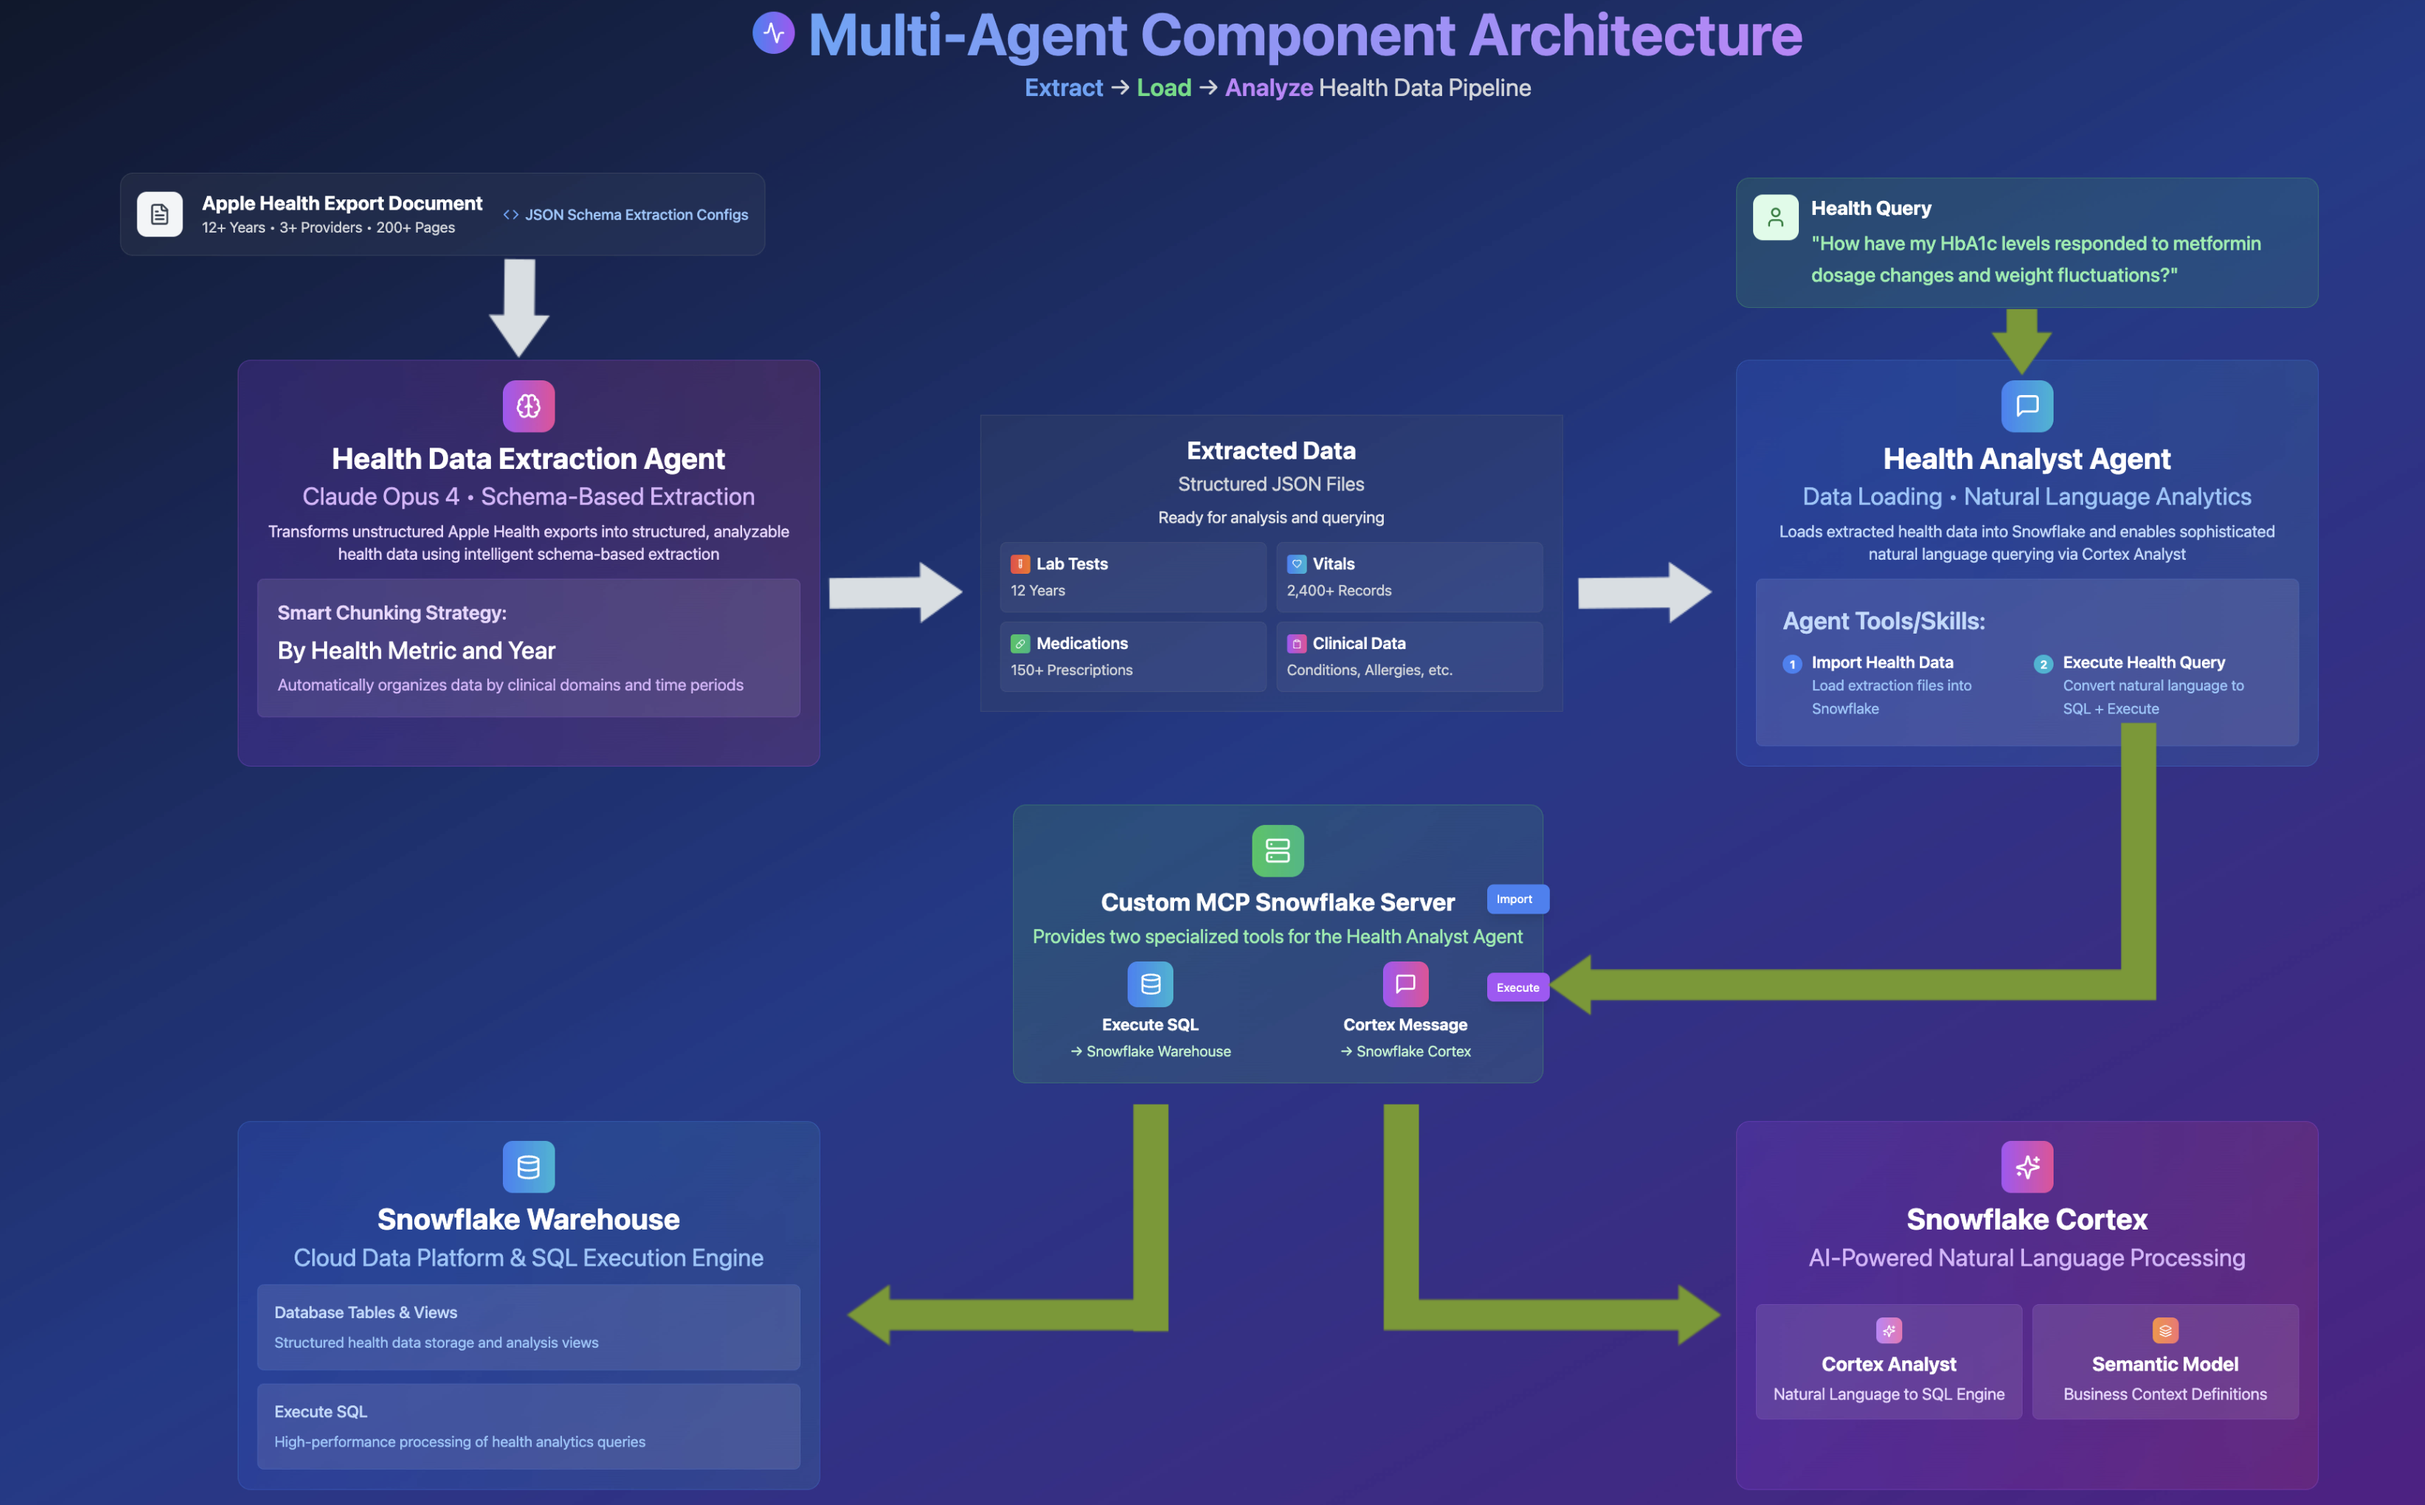
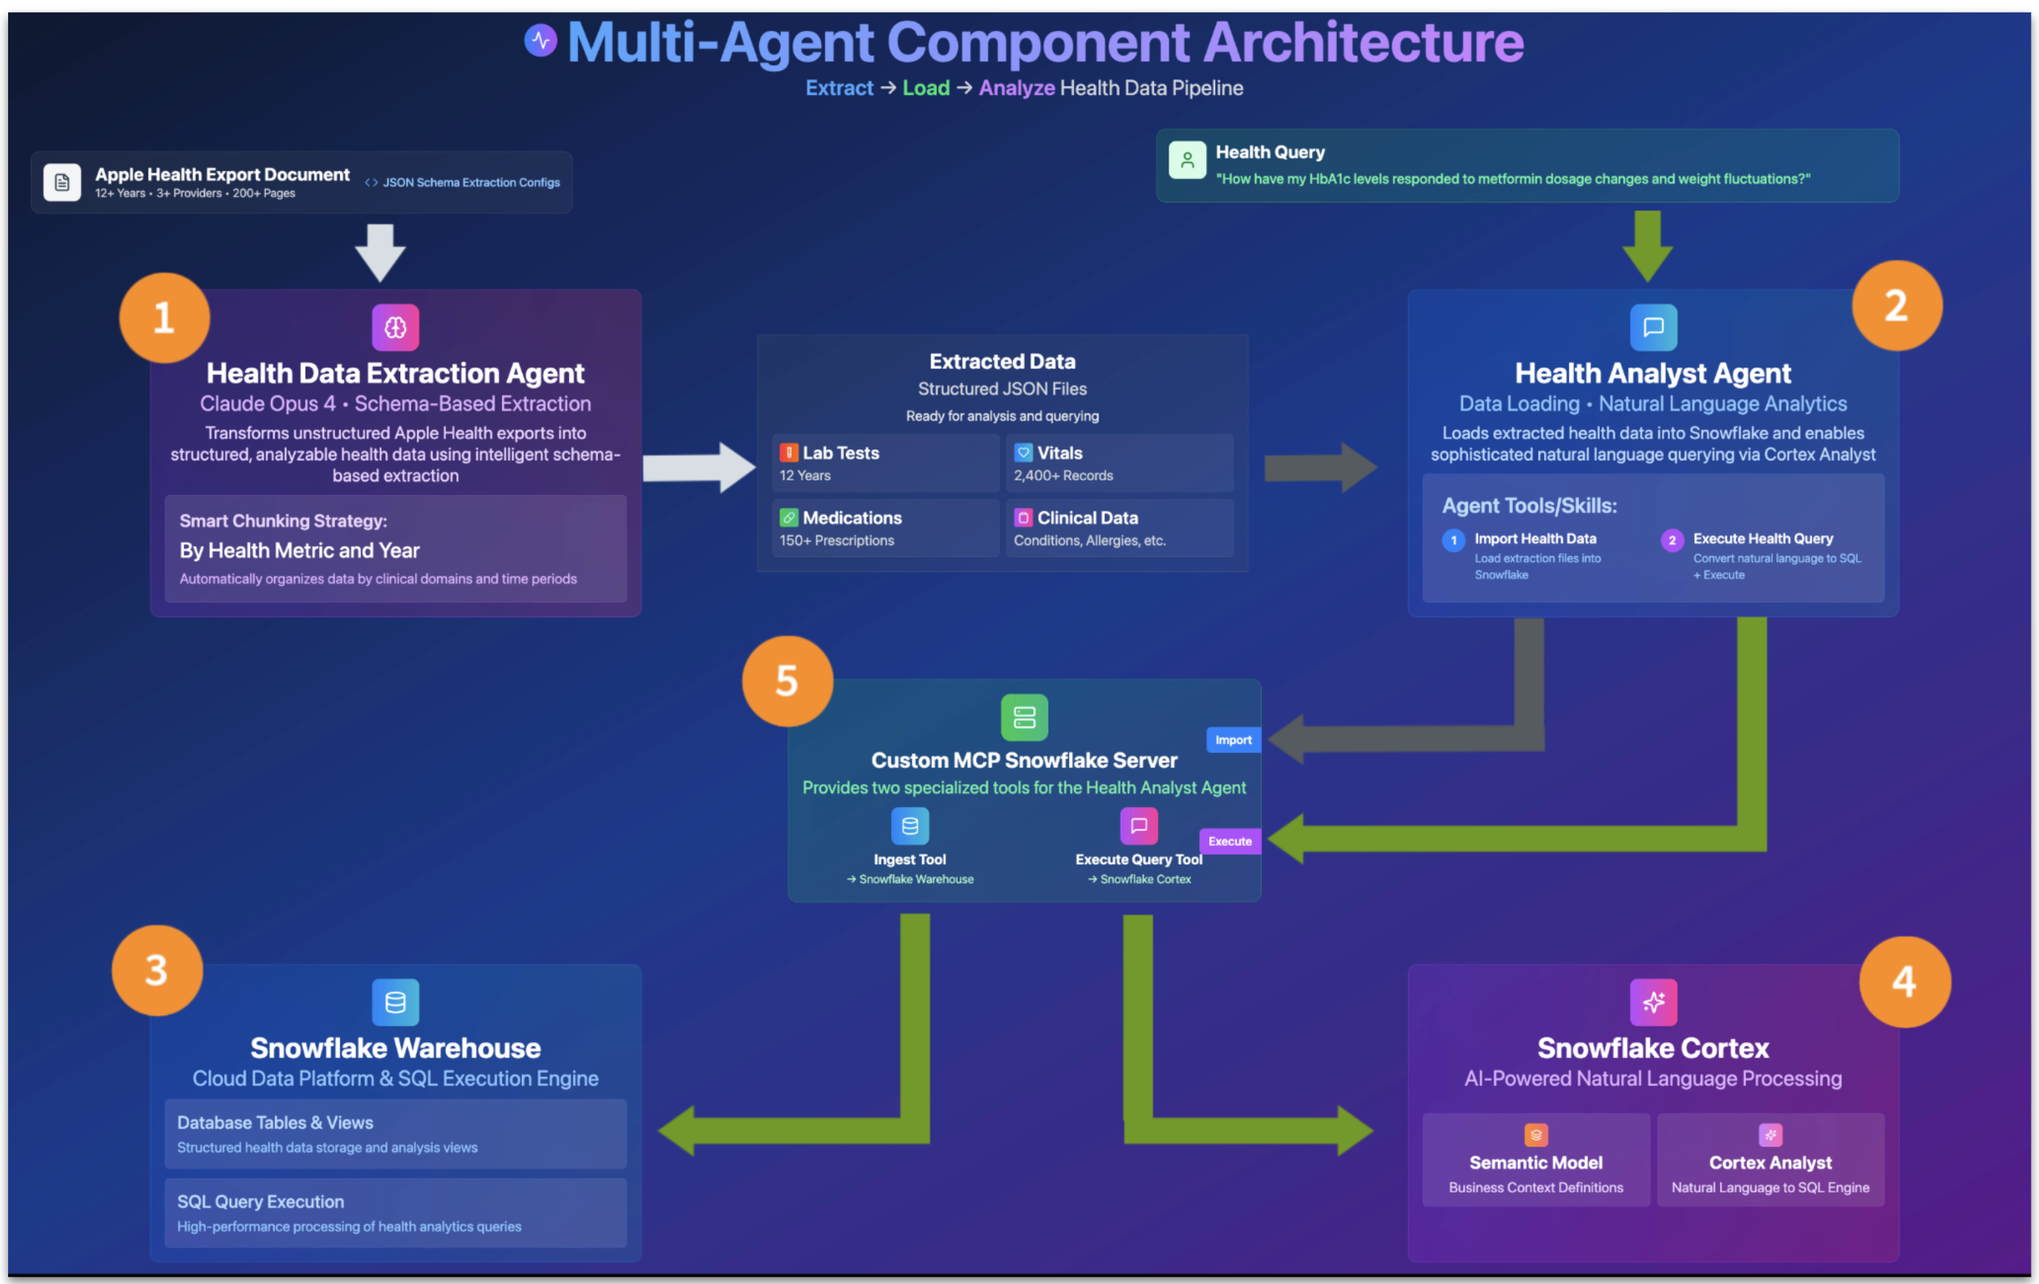
improving README

Changed region(s): [[0.0, 0.0, 1.0, 1.0], [0.903, 0.7138, 0.9652, 0.8069], [0.685, 0.7448, 0.7161, 0.7759]]

diff --git a/README.md b/README.md
@@ -3,7 +3,7 @@
 
 > **A comprehensive multi-agent system that extracts, analyzes, and visualizes 12+ years of health data from Apple Health exports using Claude Desktop, Snowflake, and advanced AI agents.**
 
-[![Architecture](docs/images/arch-images/multi-agent-component-architecture.png)](docs/images/arch-images/multi-agent-component-architecture.png)
+[![Multi-Agent Health Insight System](docs/images/arch-images/hero-image-multi-agent.png)](docs/images/arch-images/hero-image-multi-agent.png)
 
 ## Overview
 
@@ -33,10 +33,16 @@ The system leverages three core technologies:
 
 **Our solution**: A multi-agent system that transforms static health exports into interactive, conversational health intelligence.
 
-## System Components
+## Multi-Agent Component Architecture
 
-### 1. Health Data Extractor Agent
-**Role**: Schema-based extraction with 100% accuracy requirement
+[![Multi-Agent Component Architecture](docs/images/arch-images/multi-agent-component-architecture.png)](docs/images/arch-images/multi-agent-component-architecture.png)
+
+The architecture follows a clear **Extract → Load → Analyze** pipeline, with each component having one specialized job:
+
+### (1) Health Data Extraction Agent
+**Role**: Transforms unstructured PDFs into structured JSON with 100% accuracy
+
+The extraction agent doesn't try to analyze or visualize - it just extracts perfectly. This single-purpose design ensures reliability and maintainability.
 
 **Capabilities**:
 - Processes 200+ page Apple Health PDF exports
@@ -50,12 +56,14 @@ The system leverages three core technologies:
 - **Knowledge Base**: Apple Health PDF + JSON extraction schemas
 - **Output**: Structured JSON files by category and year
 
-### 2. Health Analyst Agent  
-**Role**: Data ingestion, analytics, and natural language querying
+### (2) Health Analyst Agent  
+**Role**: First loads extracted JSON files into Snowflake, then orchestrates the analytics workflow
+
+The analyst agent coordinates specialized tools that excel at natural language processing and SQL generation, then executes the SQL against the Snowflake data warehouse after receiving the generated SQL from the Cortex Analyst endpoint.
 
 **Capabilities**:
 - Imports extracted JSON into Snowflake data warehouse
-- Enables natural language health queries via Cortex Analyst
+- Orchestrates natural language queries via Cortex Analyst
 - Generates interactive visualizations using Claude Artifacts
 - Provides comprehensive health dashboards and trend analysis
 
@@ -64,6 +72,81 @@ The system leverages three core technologies:
 - **LLM**: Claude Opus 4 
 - **Tools**: Custom MCP Server with Snowflake integration
 - **Output**: Interactive React visualizations and health insights
+
+### (3) Snowflake Data Warehouse
+**Role**: Provides enterprise-grade storage and query performance
+
+When you're dealing with 12 years of lab results across multiple providers, you need sub-second response times. Snowflake delivers the performance and scalability required for complex health analytics.
+
+**Features**:
+- Enterprise-grade cloud data platform
+- Sub-second query response times for large datasets
+- Automatic scaling and optimization
+- Integrated Cortex Analyst capabilities
+
+### (4) Snowflake Cortex Analyst
+**Role**: Converts natural language to SQL with specialized focus
+
+Cortex Analyst doesn't try to be a general chatbot - it does one thing brilliantly: understanding health-related questions and generating precise SQL queries against your structured health data.
+
+**Capabilities**:
+- Natural language to SQL translation
+- Health domain-specific query understanding
+- Semantic model-powered query generation
+- Complex temporal and correlation analysis
+
+### (5) Custom MCP Snowflake Server
+**Role**: Provides the connectivity layer between agents and Snowflake
+
+The MCP server bridges Claude Desktop agents with Snowflake infrastructure through two specialized tools: one for bulk data import, one for query execution.
+
+**Tools Provided**:
+- **Health Data Import Tool**: Batch processing of JSON extraction files
+- **Natural Language Query Tool**: Real-time query execution via Cortex Analyst
+- **Authentication**: Secure connection management with Snowflake
+- **Error Handling**: Comprehensive validation and rollback capabilities
+
+## Development with Claude Code
+
+### Complete Workspace Understanding
+
+This project demonstrates Claude Code's revolutionary approach to agentic development - a capability that represents the most fundamental difference from every other development tool available today.
+
+[![Claude Code Workspace Understanding](docs/images/arch-images/claude-code-workspace-understanding.png)](docs/images/arch-images/claude-code-workspace-understanding.png)
+
+Traditional development tools like Cursor and Copilot require constant manual context management: adding files to context, explaining component relationships, and ensuring the AI understands the broader architecture. This context overhead significantly limits productivity and often results in dozens of iterations to achieve working code.
+
+**Claude Code eliminates this friction entirely** through automatic comprehension of your complete project structure.
+
+### CLAUDE.md Framework Implementation
+
+The key to unlocking Claude Code's capabilities lies in creating comprehensive design and requirements that serve as Claude Code's instruction manual. This project showcases the **CLAUDE.md Framework**:
+
+**📋 Business Requirements** ([`agents/analyst-agent/config/`](agents/analyst-agent/config/))
+- User workflows and access patterns
+- Health query types and success criteria
+- End-user perspective and use cases
+
+**⚙ Technical Requirements** ([`requirements/technical/`](requirements/technical/))
+- Database design patterns and data modeling principles
+- Cortex Analyst integration specifications
+- MCP server implementation guidelines
+
+### Development Velocity Results
+
+This comprehensive context foundation transformed development outcomes:
+
+- **🎯 Production-ready code in 1-2 attempts** instead of dozens of iterations
+- **🚀 Complete MCP server generation** from technical specifications
+- **📊 Semantic model creation** directly from business requirements
+- **🗄 Snowflake DDL generation** following data modeling principles
+
+**Key Artifacts Built with Claude Code:**
+- **Custom MCP Server** ([`tools/health-mcp/`](tools/health-mcp/)) - Complete implementation with dual health tools
+- **Semantic Model** ([`semantic-model/snowflake/`](semantic-model/snowflake/)) - Cortex Analyst configuration
+- **Database Schema** ([`data-store/snowflake/ddl/`](data-store/snowflake/ddl/)) - Enterprise-grade health data model
+
+The upfront investment in creating detailed design and requirements pays exponential dividends in development velocity and code quality. This approach showcases how proper project structure enables Claude Code to function as a true development partner rather than just a code completion tool.
 
 ## Sample Analytics & Visualizations
 
@@ -335,33 +418,6 @@ uv run python src/health_mcp.py
 └── requirements/                   # Technical specifications
     └── technical/                  # Implementation requirements
 ```
-
-## Key Features
-
-### 🎯 **100% Extraction Accuracy**
-- Schema-based extraction with validation
-- Character-for-character precision requirements
-- Comprehensive error detection and correction
-
-### 🧠 **Advanced Natural Language Processing**
-- Snowflake Cortex Analyst integration
-- Complex multi-table correlation queries
-- Intelligent query preprocessing and enhancement
-
-### 📊 **Interactive Visualizations**
-- Real-time React component generation
-- Clinical-grade charts with normal range overlays
-- Mobile-responsive health dashboards
-
-### 🔐 **Enterprise-Grade Security**
-- Snowflake enterprise data platform
-- Encrypted connections and secure authentication
-- Audit trails and data lineage tracking
-
-### 🚀 **Scalable Architecture**
-- Multi-agent design patterns
-- Model Context Protocol for extensibility
-- Comprehensive error handling and monitoring
 
 ## Demo Videos
 
